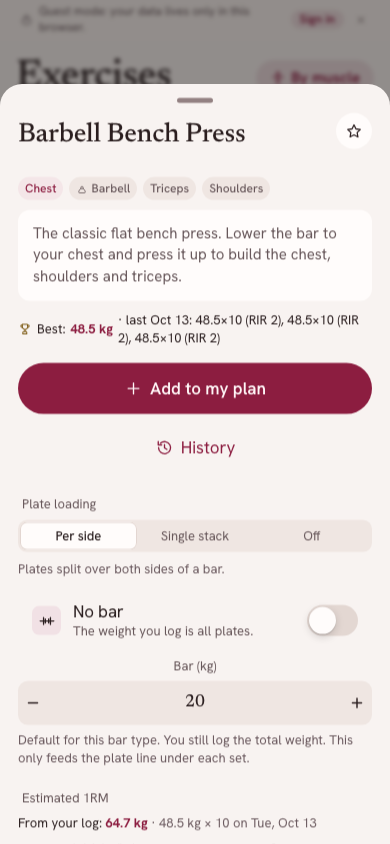
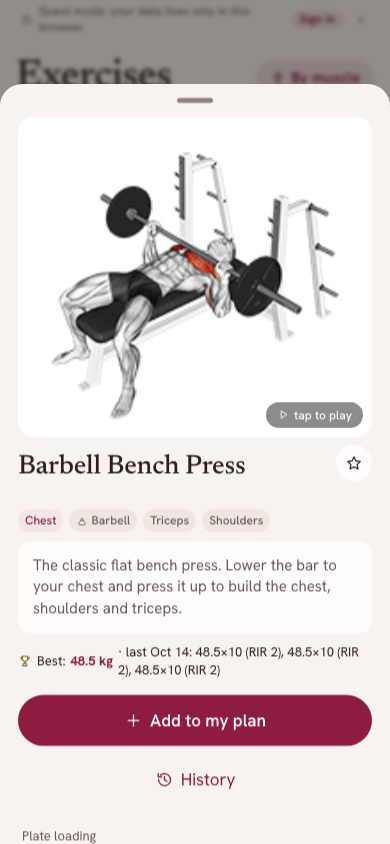
docs: refresh synthetic illustrations and prescription walkthroughs

diff --git a/scripts/screenshot-fixture.ts b/scripts/screenshot-fixture.ts
@@ -1,6 +1,9 @@
 import { activate } from '../packages/core/src/programme'
 import { createExerciseIndex } from '../packages/core/src/exercises'
 import { workoutVolume } from '../packages/core/src/history'
+import { importProgramme, saveImportedProgramme } from '../packages/core/src/programme-import'
+import { nativeRowIdentity } from '../packages/core/src/native-prescription'
+import { createHash } from 'node:crypto'
 
 // Invented from scratch: never reads an export, user library, or commercial template.
 const date = new Date()
@@ -45,5 +48,39 @@ for(let i=0;i<12;i++){
   const when=ago((11-i)*5)
   state.bodyweight.push({d:iso(when),t:when.getTime(),w:76-i*.12})
   state.measurements.push({d:iso(when),t:when.getTime(),waist:84-i*.15,chest:98+i*.1,upperArmLeft:33+i*.05,bodyFat:19-i*.1,other:[]})
+}
+// Optional original examples for the current native-prescription and max-editor tour.
+// The provenance digest identifies this invented text, not a workbook or source packet.
+const mode = process.argv[2]
+if (mode && !['--native', '--max'].includes(mode)) throw new Error('Use --native or --max, or omit the argument for the original tour.')
+if (mode) {
+  state.routines=[]; state.week={}; state.dayPlan={}; state.active=null
+  state.programmes={version:1,fork:'opengym/1',definitions:[],cycles:[]}
+  state.weighIn=false; state.sound=false; state.gifSize='full'; state.workoutView='list'
+  const demo:any={id:mode==='--native'?'synthetic-native':'synthetic-max',
+    name:mode==='--native'?'Native back-off example':'Training max example',unit:'kg',goal:'Strength',level:'Intermediate',
+    daysPerWeek:1,lengthWeeks:1,equipment:['barbell'],licence:'Original synthetic example',
+    source:{kind:'own',ref:'Invented screenshot example',private:false},
+    endPlan:{kind:'stop',instructions:'Review this invented example before choosing another block.'},
+    weeks:[{index:1,mode:'train',days:[{key:'d1',ordinal:1,sessions:[{sessionTemplateId:'main',routineSnapshot:{name:'Bench session',ex:[]}}]}]}]}
+  const exercises=demo.weeks[0].days[0].sessions[0].routineSnapshot.ex
+  if (mode==='--native') {
+    const label='Barbell close-grip bench press'
+    const prescription:any={version:1,variantKey:`source-variant:0030:${encodeURIComponent(label.toLowerCase())}:`,
+      source:{slotId:'synthetic-native-bench',workbookSha256:createHash('sha256').update('Original screenshot example: three sets of five; back-off rows ten percent below the first completed set.').digest('hex'),sheet:'Invented example',cell:'A1'},
+      sets:Array.from({length:3},(_,i)=>({sourceTemplateId:`synthetic-row-${i+1}`,reps:{kind:'fixed',min:5,max:5}}))}
+    for (const row of prescription.sets.slice(1)) row.relativeLoad={kind:'same-entry-reduction',anchor:nativeRowIdentity(prescription,1),reductionPercent:10}
+    demo.rulesSupported=true
+    exercises.push({id:'0030',label,slotId:'synthetic-native-bench',sets:3,prog:'off',nativePrescription:prescription})
+  } else {
+    demo.maxBasis='tm'; demo.tmSeeds={bench:{value:100,unit:'kg'}}
+    demo.progressionRules=[{id:'synthetic-percent',kind:'percentage',ref:{lift:'bench',basis:'tm'},
+      rounding:{increment:2.5,mode:'nearest',usePlates:false},weeks:{'1':[{pct:.8,reps:5},{pct:.9,reps:5}]}}]
+    exercises.push({id:'0025',slotId:'bench',role:'main',sets:2,reps:5,weight:80,prog:'off',target:{rir:2},
+      progression:{kind:'manual',instructions:'Follow the exact percentage targets.',rules:['synthetic-percent']}})
+  }
+  const preview=importProgramme(demo)
+  saveImportedProgramme(state,preview)
+  activate(state,preview.definition as any,{cycleId:'synthetic-current-cycle',today})
 }
 console.log(JSON.stringify(state))

diff --git a/docs/screenshots/README.md b/docs/screenshots/README.md
@@ -2,9 +2,26 @@
 
 Captured from the compiled application with **agent-browser 0.8.5**, using the invented state from `scripts/screenshot-fixture.ts`. No user export, personal account, private programme library, commercial programme template, or personal browser profile is read. Names, logs, measurements, membership values, device labels, and the demo invite are invented. Exercise text and any catalogue media retain the notices in [NOTICE.md](../../NOTICE.md).
 
-All phone PNGs are **390 × 844**. Desktop PNGs are **1440 × 900**. These are viewport captures, with additional scrolled views for long pages. PNGs are losslessly optimized with Pillow (`optimize=True, compress_level=9`); neither pngquant nor oxipng was installed. No screenshot pixels or UI elements were retouched.
+Seven images were refreshed on 2026-10-16 from runtime build **a6c1ddccbc**: Library, exercise detail, Focus workout, programme session preview, native prescription preview, native relative loads, and training max adjustment. The other **42 images** retain their historical build attribution, including the base-build stamp visible in About. The refresh changes only the synthetic fixture, documentation, and screenshots; it uses the compiled runtime at that build.
+
+All phone PNGs are **390 × 844**. Desktop PNGs are **1440 × 900**. These are viewport captures, with additional scrolled views for long pages. The 42 historical PNGs retain their lossless Pillow optimization (`optimize=True, compress_level=9`); neither pngquant nor oxipng was installed. The seven refreshed PNGs are exact browser outputs. No screenshot pixels or UI elements were retouched.
 
 ## Reproduction
+
+### Current prescription and illustration examples
+
+The bounded refresh uses the same invented state generator, with two optional modes:
+
+```sh
+bun scripts/screenshot-fixture.ts --native > .gate/screenshot-native.json
+bun scripts/screenshot-fixture.ts --max > .gate/screenshot-max.json
+```
+
+Both modes create original examples through the public programme importer and activation functions. The native example authors three sets of five, with the last two rows ten percent below the first completed set's actual load. Start the session through the UI, enter and complete 100 kg on the anchor, and inspect the planned 90 kg back-off without replacing the blank actual-load field. The max example starts with a 100 kg training max and two five-rep targets at 80% and 90%, with 2 RIR. Open the active programme card → **Adjust max**, enter 110 kg, and inspect the future **87.5 / 100 kg** preview after 2.5 kg rounding. The captured example cancels without saving.
+
+Load each fixture into a fresh guest state as described below. These views require no signed-in account. Serve the licensed catalogue stills and clips used by the visible exercises, preserving [NOTICE.md](../../NOTICE.md). Confirm thumbnails have decoded, the workout animation has advanced, and **tap to pause** and **Minimize** work before capture. Use real UI controls; do not replace images, labels, or prescriptions in the DOM. The native preview and workout rows show the complete targets; the legacy Home shorthand can still show `3 × 0` in the blurred background. The refresh verifies the row prescriptions and records that summary limitation. The strict media allowlist returns 404 for `exercise-media/NOTICE.txt`; preserve the file alongside prepared media and use the repository notice links for attribution.
+
+### Original full tour
 
 1. Install with `bun install --frozen-lockfile`, then run `bun run build` and `bun scripts/prepare-static.ts`.
 2. Make ignored scratch storage and generate only invented state:
@@ -70,7 +87,7 @@ The browser reports **“Not supported in this browser”** on Reminders, so tha
 
 ## Inventory
 
-46 PNGs, **2,835,685 bytes** total (2.70 MiB).
+49 PNGs, **3,152,448 bytes** total (3.01 MiB).
 
 | Image | Size | View / action |
 | --- | ---: | --- |
@@ -79,18 +96,20 @@ The browser reports **“Not supported in this browser”** on Reminders, so tha
 | [bodyweight.png](bodyweight.png) | 58,153 B · 390 × 844 | Stats; scroll Body weight into view. |
 | [check-in.png](check-in.png) | 27,669 B · 390 × 844 | Check in; invented, unusable demo membership QR. |
 | [e1rm.png](e1rm.png) | 70,137 B · 390 × 844 | Stats → Exercise progress → Est. 1RM; scroll to the card. |
-| [exercise-detail.png](exercise-detail.png) | 83,722 B · 390 × 844 | Search results → Barbell Bench Press. |
+| [exercise-detail.png](exercise-detail.png) | 96,159 B · 390 × 844 | Current build: Exercises → search barbell bench press → first result; pause to the decoded still drawing. |
 | [history.png](history.png) | 76,495 B · 390 × 844 | History; 18 invented completed workouts. |
 | [home-dark.png](home-dark.png) | 70,591 B · 390 × 844 | Home after Look & Home → Dark. |
 | [home.png](home.png) | 69,122 B · 390 × 844 | Home; top of Today with the next prescription. |
-| [library.png](library.png) | 82,773 B · 390 × 844 | Exercises → search “barbell bench press”. |
+| [library.png](library.png) | 79,332 B · 390 × 844 | Current build: Exercises; default rows with decoded licensed thumbnails. |
 | [measurements.png](measurements.png) | 58,075 B · 390 × 844 | Body measurements; waist history. |
 | [muscle-balance.png](muscle-balance.png) | 85,985 B · 390 × 844 | Stats; scroll Muscle balance into view. |
 | [muscles.png](muscles.png) | 84,219 B · 390 × 844 | Explore muscles → Chest; exercise discovery by muscle. |
+| [native-prescription.png](native-prescription.png) | 111,058 B · 390 × 844 | Current build: --native fixture → Home → Preview; three five-rep rows, authored 10% back-off relation, pending anchor. |
+| [native-relative.png](native-relative.png) | 67,553 B · 390 × 844 | Current build: --native fixture → Start → enter and complete 100 kg anchor → Minimize media; planned 90 kg back-offs keep blank actual loads. |
 | [planner-desktop.png](planner-desktop.png) | 63,933 B · 1440 × 900 | Plan → Schedule at desktop size; scroll to top. |
 | [planner.png](planner.png) | 39,835 B · 390 × 844 | Plan → Schedule; month calendar. |
 | [programme-week.png](programme-week.png) | 55,168 B · 390 × 844 | Programs → Upper/Lower Strength; scroll Week 1 into view. |
-| [programme.png](programme.png) | 63,770 B · 390 × 844 | Programme week → D1 Upper Strength; read-only session preview. |
+| [programme.png](programme.png) | 77,205 B · 390 × 844 | Current build: original fixture → Home → Preview; read-only projected Upper Strength session. |
 | [programmes.png](programmes.png) | 60,617 B · 390 × 844 | Plan → Programs; active cycle and two synthetic definitions. |
 | [progression-why.png](progression-why.png) | 70,712 B · 390 × 844 | Home → first Why disclosure; scroll to the expanded prescription. |
 | [routine-editor.png](routine-editor.png) | 86,174 B · 390 × 844 | Plan → Routines → first Edit. |
@@ -117,6 +136,7 @@ The browser reports **“Not supported in this browser”** on Reminders, so tha
 | [stats-desktop.png](stats-desktop.png) | 101,180 B · 1440 × 900 | Stats at desktop size; scroll to top. |
 | [stats.png](stats.png) | 51,412 B · 390 × 844 | Stats; activity and summary at the top. |
 | [structural-balance.png](structural-balance.png) | 62,053 B · 390 × 844 | Structural balance; select the powerlifting ratio table, with synthetic squat/bench/deadlift history. |
+| [training-max.png](training-max.png) | 78,838 B · 390 × 844 | Current build: --max fixture → Plan → Programs → active card → Adjust max → 110 kg; future 87.5 / 100 kg preview, cancelled after capture. |
 | [workout-detail.png](workout-detail.png) | 68,292 B · 390 × 844 | History → newest Full Body workout. |
 | [workout-effort.png](workout-effort.png) | 75,060 B · 390 × 844 | Active Focus workout → RIR; capture the effort picker. |
-| [workout-focus.png](workout-focus.png) | 50,326 B · 390 × 844 | Home → Start → Start without weighing in; complete one set to start the rest timer. |
+| [workout-focus.png](workout-focus.png) | 87,209 B · 390 × 844 | Current build: original fixture → Start without weighing in → complete one set; exercise animation, tap-to-pause, Minimize, and rest timer; scroll to top. |

diff --git a/README.md b/README.md
@@ -20,6 +20,16 @@ The browser app uses React and an offline-capable Platform adapter. The server r
 
 All images use invented routines, programmes, workouts, measurements, devices, and membership codes. Phone captures are 390 × 844; desktop captures are 1440 × 900. Open an image for its full size. The [capture guide and complete inventory](docs/screenshots/README.md) include reproduction steps and browser limitations.
 
+Built-in exercise illustrations and animations appear in the Library, exercise details, and workout views; catalogue credits and licence notices are preserved in [NOTICE.md](NOTICE.md).
+
+<table>
+  <tr>
+    <td align="center"><a href="docs/screenshots/native-prescription.png"><img src="docs/screenshots/native-prescription.png" width="240" alt="Native session targets"></a><br><sub>Native session targets</sub></td>
+    <td align="center"><a href="docs/screenshots/native-relative.png"><img src="docs/screenshots/native-relative.png" width="240" alt="Relative back-off loads"></a><br><sub>Relative back-off loads</sub></td>
+    <td align="center"><a href="docs/screenshots/training-max.png"><img src="docs/screenshots/training-max.png" width="240" alt="Training max adjustment"></a><br><sub>Training max adjustment</sub></td>
+  </tr>
+</table>
+
 <table>
   <tr>
     <td align="center"><a href="docs/screenshots/home.png"><img src="docs/screenshots/home.png" width="240" alt="Today & next session"></a><br><sub>Today & next session</sub></td>
